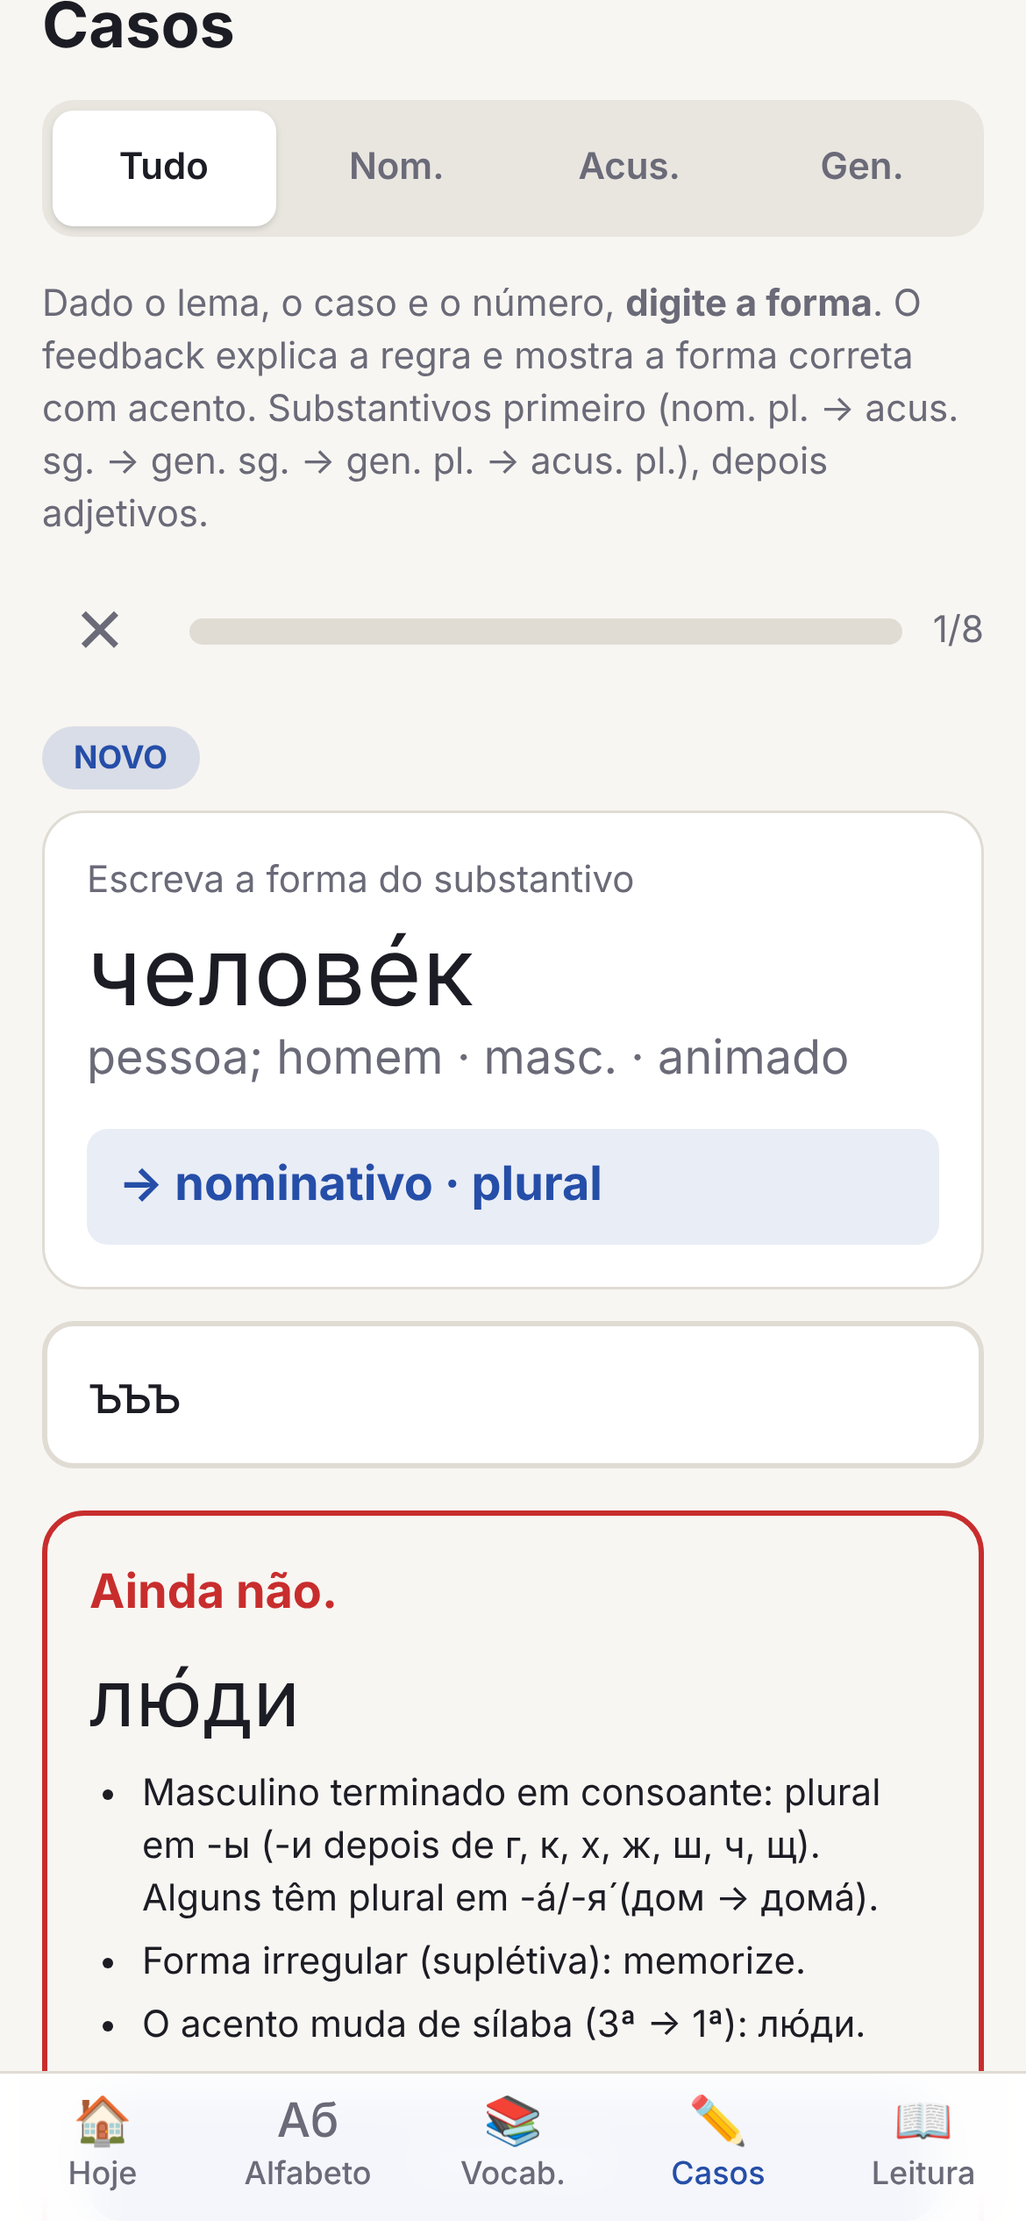
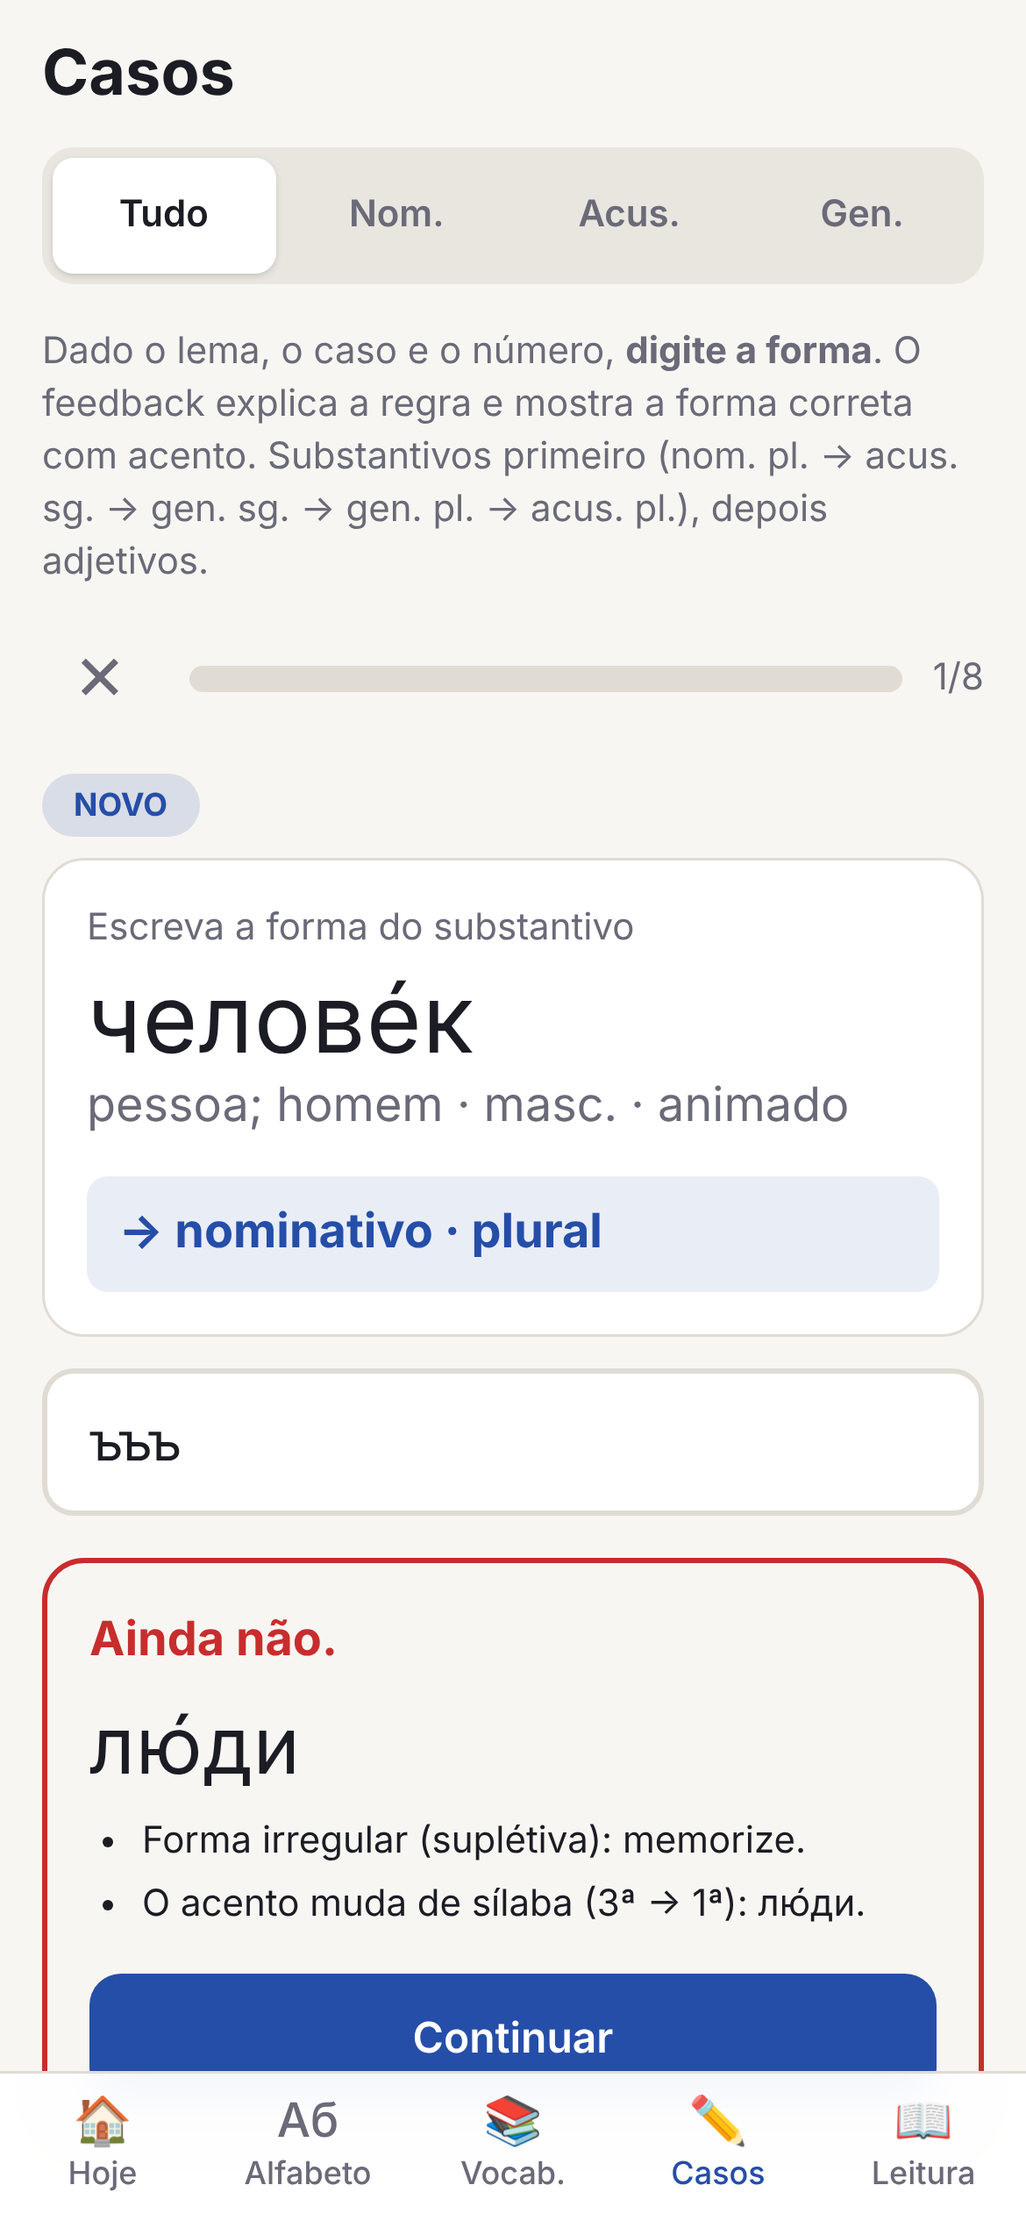
Add Tatoeba optional step, docs, deploy guide, headers

diff --git a/src/lib/grammar.ts b/src/lib/grammar.ts
@@ -125,7 +125,7 @@ const SPELL7 = 'г, к, х, ж, ш, ч, щ';
 
 const NOUN_RULES: Partial<Record<Cls, Record<string, string>>> = {
   'm-hard': {
-    'nom.pl': `Masculino terminado em consoante: plural em -ы (-и depois de ${SPELL7}). Alguns têm plural em -а́/-я́ (дом → дома́).`,
+    'nom.pl': `Masculino terminado em consoante: plural em -ы (-и depois de ${SPELL7}). Alguns têm plural acentuado na terminação: -а́ ou -я́ (дом → дома́).`,
     'gen.sg': 'Masculino terminado em consoante: genitivo singular = + а.',
     'gen.pl': 'Masculino terminado em consoante: genitivo plural = + ов (ev/ёв após ц e quando átono; + ей após ж, ш, ч, щ).',
     'acc.sg': 'Masculino: inanimado → acusativo = nominativo; animado → acusativo = genitivo (+ а).',
@@ -171,7 +171,7 @@ const NOUN_RULES: Partial<Record<Cls, Record<string, string>>> = {
     'nom.pl': 'Neutro em -ие: -ие → -ия.', 'gen.sg': 'Neutro em -ие: -ие → -ия.', 'gen.pl': 'Neutro em -ие: -ие → -ий.', 'acc.sg': 'Neutro: acusativo = nominativo.',
   },
   'n-mya': {
-    'nom.pl': 'Neutros em -мя (имя, время): plural em -ена́ (имена́).', 'gen.sg': 'Neutros em -мя: -мя → -мени.',
+    'nom.pl': 'Neutros em -мя: plural em -ена́.', 'gen.sg': 'Neutros em -мя: -мя → -мени.',
     'gen.pl': 'Neutros em -мя: -мя → -мён/-мен.', 'acc.sg': 'Neutro: acusativo = nominativo.',
   },
 };
@@ -181,8 +181,8 @@ const ADJ_NOM: Record<string, string> = {
   'n.sg': 'Neutro sg. nominativo: -ый → -ое (-ий → -ее).', 'pl': 'Plural nominativo: -ый → -ые (-ий/-ой → -ие/-ые).',
 };
 const ADJ_GEN: Record<string, string> = {
-  'm.sg': 'Genitivo masc./neutro sg.: -ого (-его depois de шипящие/мягкий); o г lê-se [в].',
-  'n.sg': 'Genitivo masc./neutro sg.: -ого (-его depois de шипящие/мягкий); o г lê-se [в].',
+  'm.sg': 'Genitivo masc./neutro sg.: -ого (-его depois de sibilantes ou radical mole); o г lê-se [в].',
+  'n.sg': 'Genitivo masc./neutro sg.: -ого (-его depois de sibilantes ou radical mole); o г lê-se [в].',
   'f.sg': 'Genitivo fem. sg.: -ой (-ей).', 'pl': 'Genitivo plural: -ых (-их depois de г, к, х, ж, ш, ч, щ e radical mole).',
 };
 const ADJ_ACC: Record<string, string> = {
@@ -233,8 +233,8 @@ export function explain(ix: ContentIndex, k: GramKey, variants: string[], input 
   const stem = /[аеёиоуыэюяьй]$/.test(b) ? b.slice(0, -1) : b;
   const p = commonPrefix(b, target);
   if (l.pos === 'noun' && target !== b) {
-    if (p < Math.min(2, stem.length)) lines.push('Forma irregular (suplétiva): memorize.');
-    else if (p < stem.length && !(l.an && k.c === 'acc')) lines.push(`A raiz muda (vogal fugitiva ou alternância): ${stripStress(base)} → ${stripStress(correct)}.`);
+    if (p < Math.min(2, stem.length)) { lines.length = 0; lines.push('Forma irregular (suplétiva): memorize.'); }
+    else if (p < stem.length && !(l.an && k.c === 'acc')) lines.push(`A raiz muda (vogal fugitiva ou alternância): ${l.s} → ${correct}.`);
   }
   const s1 = syllableOfStress(l.s), s2 = syllableOfStress(correct);
   if (syllableCount(correct) > 1 && s1 > 0 && s2 > 0 && s1 !== s2) lines.push(`O acento muda de sílaba (${s1}ª → ${s2}ª): ${correct}.`);

diff --git a/scripts/pipeline/tatoeba.ts b/scripts/pipeline/tatoeba.ts
@@ -1,0 +1,36 @@
+// Tatoeba (opcional): pares ru↔pt a partir dos dumps oficiais. Só entra o que resolve 100% nos dados (sem ambiguidade de acento).
+import { existsSync } from 'node:fs';
+import { execFileSync } from 'node:child_process';
+
+export interface Pair { id: string; ru: string; pt: string }
+
+/** Cruza sentenças ru e pt pelos links (formato Tatoeba: id\tlang\ttext e id1\tid2). */
+export function pairUp(rusTsv: string, porTsv: string, linksTsv: string): Pair[] {
+  const rows = (t: string) => t.split('\n').filter(Boolean).map((l) => l.split('\t'));
+  const ru = new Map(rows(rusTsv).map((r) => [r[0], r[2]]));
+  const pt = new Map(rows(porTsv).map((r) => [r[0], r[2]]));
+  const out: Pair[] = [];
+  const seen = new Set<string>();
+  for (const [a, b] of rows(linksTsv)) {
+    if (ru.has(a) && pt.has(b) && !seen.has(a)) {
+      seen.add(a);
+      out.push({ id: a, ru: ru.get(a)!, pt: pt.get(b)! });
+    }
+  }
+  return out;
+}
+
+/** Lê os dumps baixados por fetch.ts (precisa do utilitário `bzip2`); retorna [] se indisponível. */
+export function loadTatoeba(dir = 'data/raw/tatoeba'): Pair[] {
+  const f = (n: string) => `${dir}/${n}`;
+  if (!['rus_sentences.tsv.bz2', 'por_sentences.tsv.bz2', 'links.tar.bz2'].every((n) => existsSync(f(n)))) return [];
+  try {
+    const sh = (args: string[]) => execFileSync(args[0], args.slice(1), { maxBuffer: 1 << 30 }).toString('utf8');
+    const rus = sh(['bzip2', '-dc', f('rus_sentences.tsv.bz2')]);
+    const por = sh(['bzip2', '-dc', f('por_sentences.tsv.bz2')]);
+    const links = sh(['tar', '-xjOf', f('links.tar.bz2')]);
+    return pairUp(rus, por, links);
+  } catch {
+    return [];
+  }
+}

diff --git a/scripts/pipeline/build.ts b/scripts/pipeline/build.ts
@@ -4,6 +4,7 @@ import { existsSync, mkdirSync, readFileSync, writeFileSync } from 'node:fs';
 import {
   loadAdjectives, loadNouns, loadOthers, loadVerbs, readTsv, canon, type RawLemma, type RawForm,
 } from './openrussian.ts';
+import { loadTatoeba } from './tatoeba.ts';
 import { fromApostrophe, normalizeAnswer, stripStress, wordHasRequiredStress } from '../../shared/russian.ts';
 import type { Content, Form, Lemma, Level, Sentence, TextDoc, Token } from '../../shared/types.ts';
 
@@ -241,6 +242,16 @@ export function build(): BuildReport {
     if (r.text && r.text !== '-') s.tx = r.text;
     sentences.push(s);
   });
+  // Tatoeba: frases curtas que resolvem 100% nos dados (se os dumps estiverem disponíveis)
+  let tato = 0;
+  for (const p of loadTatoeba()) {
+    if (tato >= 300) break;
+    if (p.ru.split(/\s+/).length > 9) continue;
+    const res = resolveSentence(p.ru.replace(/ё/g, 'е'), idx, rank);
+    if (!res.tokens) continue;
+    sentences.push({ id: `s${String(sentences.length + 1).padStart(4, '0')}`, ru: res.ru!, pt: p.pt, src: `tatoeba:${p.id}`, tk: res.tokens });
+    tato++;
+  }
   for (const [id, title] of textTitles) {
     const ss = sentences.filter((s) => s.tx === id).map((s) => s.id);
     if (ss.length >= 2) texts.push({ id, title, sentences: ss });

diff --git a/tests/content.test.ts b/tests/content.test.ts
@@ -143,3 +143,25 @@ describe('gramática: currículo e explicações', () => {
     expect(explain(ix, k, answerFor(ix, k)!, 'книгы').join(' ')).toMatch(/nunca se escreve ы/);
   });
 });
+
+describe('UI: explicações nunca exibem palavra russa sem acento', () => {
+  it('todas as explicações de todas as perguntas', () => {
+    const bad = new Set<string>();
+    const V = 'аеёиоуыэюя';
+    for (const k of gramKeys(ix)) {
+      const v = answerFor(ix, k)!;
+      for (const line of [...explain(ix, k, v), ...explain(ix, k, v, 'ъъъ')]) {
+        const re = /[Ѐ-ӿ́]+/g;
+        let m: RegExpExecArray | null;
+        while ((m = re.exec(line))) {
+          const t = m[0];
+          const prev = line[m.index - 1] ?? '';
+          const nv = [...t].filter((c) => V.includes(c.toLowerCase())).length;
+          if (nv < 2 || t.includes('́') || t.includes('ё') || '-+/(→'.includes(prev) || line[m.index + t.length] === '-') continue;
+          bad.add(t);
+        }
+      }
+    }
+    expect([...bad]).toEqual([]);
+  });
+});

diff --git a/tests/tatoeba.test.ts b/tests/tatoeba.test.ts
@@ -1,0 +1,11 @@
+import { describe, expect, it } from 'vitest';
+import { pairUp } from '../scripts/pipeline/tatoeba';
+
+describe('tatoeba (fixture)', () => {
+  it('cruza ru↔pt pelos links, sem duplicar', () => {
+    const rus = '1\trus\tЯ читаю.\n2\trus\tЭто дом.\n';
+    const por = '10\tpor\tEu leio.\n11\tpor\tEsta é a casa.\n';
+    const links = '1\t10\n10\t1\n2\t11\n1\t11\n';
+    expect(pairUp(rus, por, links)).toEqual([{ id: '1', ru: 'Я читаю.', pt: 'Eu leio.' }, { id: '2', ru: 'Это дом.', pt: 'Esta é a casa.' }]);
+  });
+});

diff --git a/DECISIONS.md b/DECISIONS.md
@@ -1,0 +1,17 @@
+# Decisões (decisão · motivo · alternativa descartada)
+
+1. **Wiktextract/kaikki indisponível** (proxy do ambiente retorna 403) → usado **OpenRussian** (derivado do Wiktionary; fonte 2 da lista). `fetch.ts` testa kaikki e registra em `data/raw/fetch-report.json`. Descartado: escrever parser de kaikki sem poder testá-lo.
+2. **Tatoeba indisponível** (403) → **frases autorais** (90, 14 textos), com todas as palavras resolvidas contra o índice de formas dos dados; frases com acento ambíguo ou palavra fora do vocabulário são rejeitadas (`data/build/report.json`). O código de Tatoeba (`scripts/pipeline/tatoeba.ts`, testado com fixture) entra automaticamente se os dumps forem baixados (precisa de `bzip2`). Alternativa ru↔en descartada: sem glosas pt confiáveis.
+3. **Glosas em português**: nem OpenRussian nem dicionário aberto acessível têm pt → glosas pt **escritas por mim (autor/IA) para os 447 lemas curados** (`data/curated/lemmas.tsv`). Não são formas gramaticais nem acentos; **revise**. Glosa inglesa fica em `en` no conteúdo como referência. Alternativa (inglês marcado) descartada por inutilizar o app para o público-alvo.
+4. **Seleção de lemas**: lista curada (substantivos 221, adjetivos 68, verbos 88, outras 70) em vez de “top-N por frequência”: a frequência do OpenSubtitles é por forma e contamina com homógrafos/palavrões/nomes (ex.: уж, быль, тут). A frequência (soma das formas por lema) define `freq_rank` e a ordem de ensino. Nível A1/A2/B1 = faixas de rank (≤150, ≤320, resto): heurística.
+5. **Acentos**: apóstrofo do OpenRussian → U+0301. **Monossílabos sem marca** (exceção da regra). ё conta como tônica; comparação trata ё≡е. Formas polissilábicas sem acento nos dados são descartadas. Frases: tokens ambíguos (ex.: мою́/мо́ю) exigem desambiguação explícita pelo autor, mas o acento final **só é aceito se existir nos dados**.
+6. **Adjetivos – acusativo**: a célula do OpenRussian traz variantes juntas; animado = variante igual ao genitivo, inanimado = igual ao nominativo (verificado: todas as variantes ⊆ nom ∪ gen). Neutro: célula como está. Pronomes-adjetivos (мой, этот, тот, весь…) ficam fora do exercício gerativo.
+7. **`год` fora do exercício gerativo**: plural da fonte (лета́/лет) é suspeito para o uso geral.
+8. **наш/ваш** não existem em `adjectives.csv` → ficam de fora.
+9. **Estado do cartão = função das revisões** (replay ordenado por ts,id; fuzz do FSRS desligado). Sync só precisa trocar revisões (idempotentes por id) e converge sem resolver conflitos de estado; tabela `card` do D1 é cache LWW (usada nos lembretes). Descartado: LWW de estado do cartão (perde revisões).
+10. **Rating**: acerto=Bom, com dica=Difícil, erro=Errei, botão “Fácil” opcional. Reconhecimento ru→pt é autoavaliação (4 botões), sem múltipla escolha. Erros voltam 1× ao fim da sessão.
+11. **Transliteração** BGN simplificada, letra a letra (ь/ъ ignorados na comparação). “Leitura” (redução/vozeamento) é aproximação; exceções lexicais (ex.: сегодня) não cobertas.
+12. **Lembretes Telegram**: horários usam `scheduledTime` do cron; ofensiva em risco usa só dias estudados (+ congelamento). Cron a cada 30 min; consulta pesada só se ativado.
+13. **Auth**: Bearer único; todas as rotas de sync exigem (leitura inclusive, pois expõe o histórico). Token do Worker fica em `localStorage` do aparelho.
+14. **Seed D1** inclui conteúdo, mas o app é independente dele (usa o JSON estático); serve a consultas/futuras features.
+15. **Next 15.5 / ESLint 8** (eslintrc) por compatibilidade; `next lint` não usado.

diff --git a/README.md b/README.md
@@ -1,0 +1,36 @@
+# Russo — aprender o sistema, digitando
+
+Web app (PWA estático) de russo para falantes de português. Ensina o **sistema** (casos, leitura, acento) e exige **produção** (digitar formas). Custo zero, sem LLM. Formas e acentos vêm de dados abertos (OpenRussian), nunca de modelo de linguagem.
+
+Stack: Next.js 15 (`output: 'export'`) · TypeScript · Tailwind · ts-fsrs (no cliente) · IndexedDB · Cloudflare Worker + D1 (sync, usuário único).
+
+## Rodar do zero
+```bash
+npm install
+npm run data          # pipeline: baixar → normalizar → filtrar → public/data/content.json + worker/seed/content.sql
+npm run dev           # app em http://localhost:3000
+npm run build         # build estático em out/ (+ service worker com pré-cache)
+```
+Pipeline idempotente (`npm run data -- --refresh` rebaixa; `-- --no-fetch` só reconstrói). Fontes/fallbacks: ver `DECISIONS.md`.
+
+## Worker local (sync + D1 emulado)
+```bash
+cp worker/.dev.vars.example worker/.dev.vars     # defina APP_TOKEN
+npm run worker:migrate:local
+npx wrangler d1 execute rusapp --local --config worker/wrangler.toml --file worker/seed/content.sql
+npm run worker:dev                               # http://localhost:8787
+```
+No app: Configurações → URL do Worker + token → “Salvar e sincronizar”.
+
+## Qualidade
+```bash
+npm run lint && npm run typecheck
+npm test              # vitest: dados, gramática, FSRS, Worker/D1 (Miniflare), sync, lembretes
+npm run build && npm run test:e2e   # Playwright (iPhone 390x844): telas, acentos, toque, OFFLINE, sync de 2 aparelhos
+```
+Capturas das telas: `docs/screens/`.
+
+## Estrutura
+`scripts/pipeline` dados · `shared` utilidades (acento, dias/ofensiva) usadas por app e Worker · `src/lib` núcleo (srs, db, sync, grammar, queue, stats) · `src/app` telas · `worker` API + migrations + seed · `data/curated` lemas (com glosas pt) e frases autorais · `data/source` snapshot das linhas de origem usadas nos testes.
+
+Deploy: `DEPLOY.md`. Roadmap: `ROADMAP.md`.

diff --git a/DEPLOY.md b/DEPLOY.md
@@ -1,0 +1,36 @@
+# Deploy (Cloudflare) — passos que dependem das suas credenciais
+
+Pré-requisito: conta Cloudflare (free).
+```bash
+npx wrangler login
+```
+## 1. D1
+```bash
+npx wrangler d1 create rusapp
+```
+Copie o `database_id` para `worker/wrangler.toml` (`database_id`). Depois:
+```bash
+npx wrangler d1 migrations apply rusapp --remote --config worker/wrangler.toml
+npx wrangler d1 execute rusapp --remote --config worker/wrangler.toml --file worker/seed/content.sql
+```
+## 2. Segredos do Worker
+```bash
+npx wrangler secret put APP_TOKEN --config worker/wrangler.toml          # token longo e aleatório (ex.: openssl rand -hex 24)
+# opcionais (lembretes Telegram):
+npx wrangler secret put TELEGRAM_BOT_TOKEN --config worker/wrangler.toml # do @BotFather
+npx wrangler secret put TELEGRAM_CHAT_ID --config worker/wrangler.toml   # seu chat id (mande /start ao bot e use getUpdates)
+```
+## 3. Publicar o Worker
+Em `worker/wrangler.toml`, troque `ALLOWED_ORIGIN` pela URL do Pages. Então:
+```bash
+npx wrangler deploy --config worker/wrangler.toml
+```
+Anote a URL (`https://rusapp-api.<conta>.workers.dev`). O cron `*/30 * * * *` já está no toml e só age se você ativar os lembretes no app.
+## 4. Front no Cloudflare Pages
+```bash
+npm run data && npm run build
+npx wrangler pages deploy out --project-name rusapp
+```
+(ou conecte o repositório no painel: build `npm run build`, saída `out`.)
+## 5. Usar
+Abra a URL do Pages no iPhone/PC → Configurações → cole a URL do Worker e o `APP_TOKEN` → “Salvar e sincronizar”. Para lembretes: ative “Lembretes externos” (precisa dos 2 segredos do Telegram).

diff --git a/PLAN.md b/PLAN.md
@@ -1,0 +1,6 @@
+# Plano (arquitetura, schema, riscos)
+**Arquitetura**: front estático (Next export) + service worker (pré-cache de tudo em `out/`) + IndexedDB (cards/reviews/settings/meta) + FSRS no cliente. Conteúdo = `public/data/content.json` gerado por `scripts/pipeline`. Worker (Cloudflare) + D1: `POST /api/sync` (Bearer), cron para Telegram.
+**Schema D1** (`worker/migrations/0001_init.sql`): lemma, form, sentence (seed), card, review_log, setting (com `seq` p/ cursor), reminder_log. Cliente: stores `cards`, `reviews`(index card/synced/ts), `settings`, `meta`.
+**Sync**: push de revisões não enviadas + configs sujas; pull por cursor `seq` paginado; estado do cartão recalculado por replay.
+**Dados**: OpenRussian (formas+acento) + frequência; lista curada com glosas pt; frases autorais resolvidas contra o índice.
+**Riscos**: (1) fontes bloqueadas → fallbacks (DECISIONS); (2) glosas/frases autorais podem ter erros de tradução → revisão humana; (3) homógrafos → rejeição de frases ambíguas; (4) iOS limpa IndexedDB após ~7 dias sem uso (Safari, fora de PWA instalada) → sync é a rede de segurança; (5) cobertura de teste em WebKit real inexistente (só Chromium emulando iPhone).

diff --git a/LICENSES.md b/LICENSES.md
@@ -1,0 +1,10 @@
+# Licenças e atribuições
+
+| Fonte | Uso | Licença |
+|---|---|---|
+| [OpenRussian.org / Badestrand/russian-dictionary](https://github.com/Badestrand/russian-dictionary) | lemas, acentos, tabelas de flexão (nomes, adjetivos, verbos), glosas em inglês | CC BY-SA 4.0 (derivado do Wiktionary e colaboradores) |
+| [FrequencyWords (hermitdave)](https://github.com/hermitdave/FrequencyWords) — OpenSubtitles 2018 | ordenação por frequência | conteúdo CC BY-SA 4.0; código MIT |
+| [Tatoeba](https://tatoeba.org) | opcional, **não usado nesta versão** (inacessível no build) | CC BY 2.0 FR |
+| Glosas pt, frases e textos | autorais deste projeto | herdam CC BY-SA 4.0 por conterem formas derivadas |
+
+Por CC BY-SA, os arquivos derivados (`public/data/content.json`, `worker/seed/content.sql`, `data/source/*`) permanecem CC BY-SA 4.0. A atribuição é exibida na página “Sobre” do app.

diff --git a/PROGRESS.md b/PROGRESS.md
@@ -1,0 +1,9 @@
+# Progresso
+- [x] Pipeline de dados (fetch com fallback, build, seed D1, snapshot de origem)
+- [x] Núcleo: FSRS determinístico, IndexedDB, sync idempotente, gramática gerativa + explicações, filas, estatísticas, ofensiva c/ congelamento
+- [x] Worker + D1 (migrations, sync, auth, CORS) + lembretes Telegram (regras puras + integração mockada)
+- [x] UI mobile: Hoje (painel), Alfabeto/Regras/Prática, Vocabulário (digitar/reconhecer/acento), Casos, Leitura graduada, Config, Sobre
+- [x] PWA: manifest, ícones, service worker com pré-cache; teste OFFLINE
+- [x] Testes: vitest (38) + e2e Playwright (4) · lint · typecheck · build
+- [x] Docs: README, DEPLOY, DECISIONS, LICENSES, ROADMAP, PLAN
+- [ ] Pendente (usuário): login Cloudflare, segredos, deploy, Telegram

diff --git a/ROADMAP.md b/ROADMAP.md
@@ -1,0 +1,8 @@
+# Roadmap (fases seguintes — NÃO implementadas)
+1. Outros casos: dativo, instrumental, preposicional (as formas já estão em `form`); preposições regendo casos.
+2. Aspecto verbal: pares perfectivo/imperfectivo, exercícios de escolha de aspecto por contexto (formas verbais já na tabela).
+3. Verbos de movimento (ir/ехать, prefixos).
+4. Áudio (só após toque do usuário no iOS; TTS do navegador ou clipes Tatoeba/Forvo com licença).
+5. Correção de frases livres (analisador baseado em regras + tabela de formas; sem LLM nesta linha).
+6. Mais conteúdo: Tatoeba real (rodar o pipeline com rede), glosas pt revisadas, mais lemas.
+7. Exportar/importar progresso; modo escuro manual; Web Push (fora de escopo agora).
